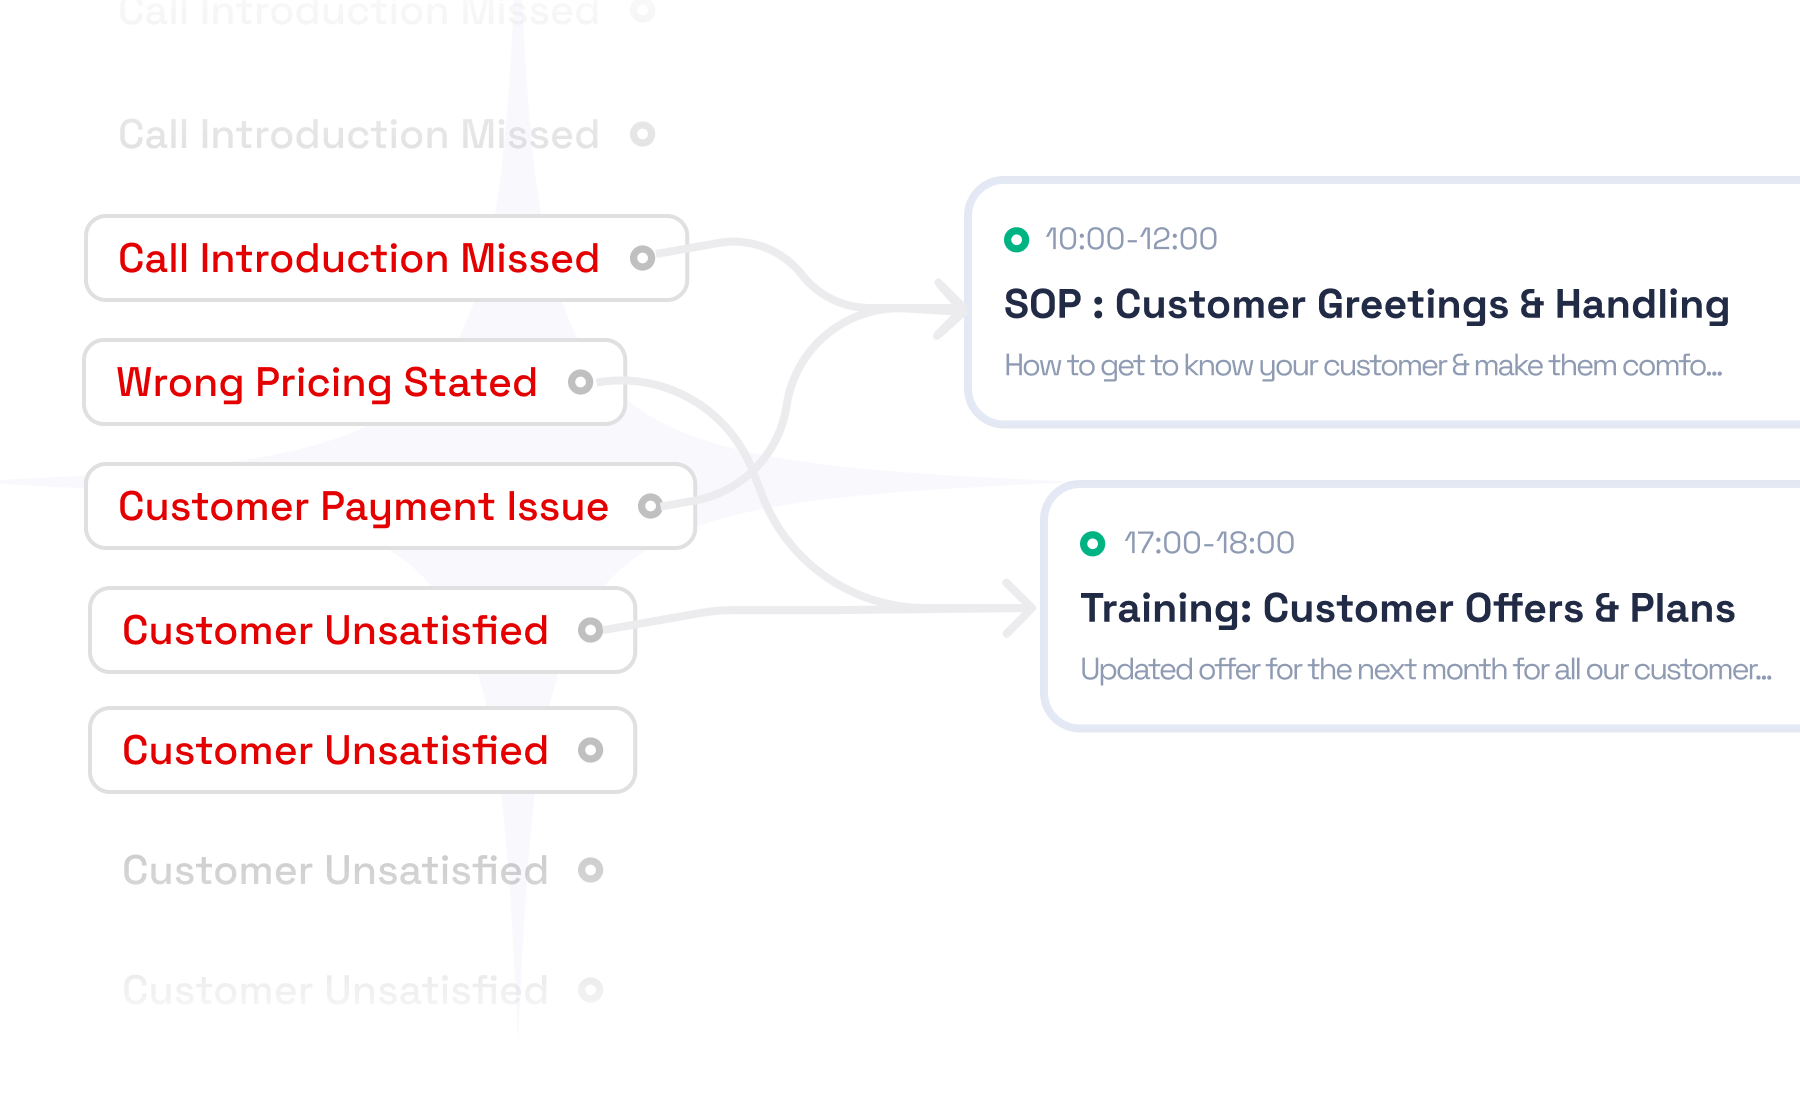
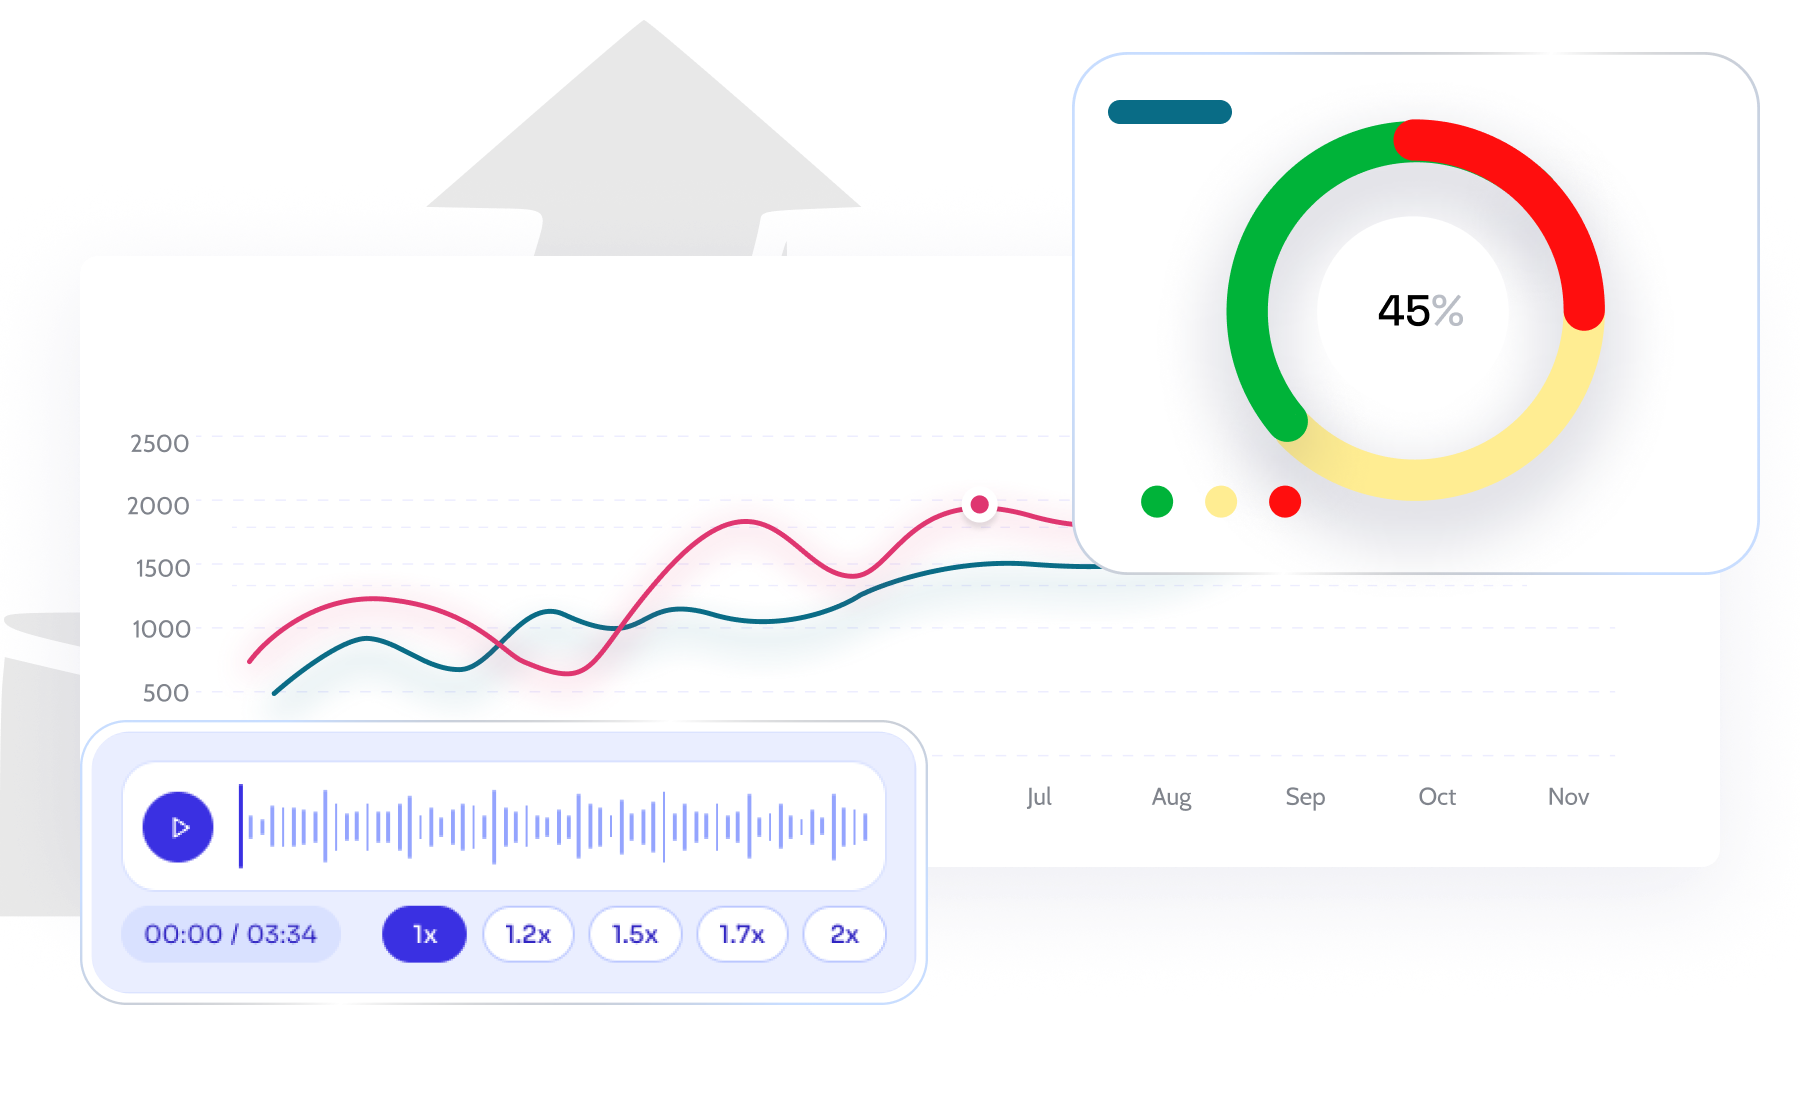
fix

diff --git a/src/components/hero/hero-graphic.jsx b/src/components/hero/hero-graphic.jsx
@@ -1,29 +1,35 @@
-// import { useState, useEffect } from 'react'
+import { useState, useEffect } from 'react'
 import heroImage from '@/assets/hero.png'
 
 export default function HeroGraphic() {
-  // const [scrollY, setScrollY] = useState(0)
+  const [scrollY, setScrollY] = useState(0)
 
-  // useEffect(() => {
-  //   const handleScroll = () => {
-  //     setScrollY(window.scrollY)
-  //   }
+  useEffect(() => {
+    const handleScroll = () => {
+      setScrollY(window.scrollY)
+    }
 
-  //   window.addEventListener('scroll', handleScroll)
-  //   return () => window.removeEventListener('scroll', handleScroll)
-  // }, [])
+    window.addEventListener('scroll', handleScroll)
+    return () => window.removeEventListener('scroll', handleScroll)
+  }, [])
 
   // Calculate tilt angle based on scroll position
-  // Start at -25 degrees on X-axis (3D tilt), gradually return to 0 as we scroll to 1000px
-  // const maxScroll = 1000
-  // const maxTilt = -25
-  // const currentTilt = Math.max(10, maxTilt + (scrollY / maxScroll) * Math.abs(maxTilt))
+  // Start at 15 degrees, reduce by 1 degree every 20px scroll until 0
+  const scrollStep = 20 // pixels per degree
+  const initialTilt = 15
+  const tiltReduction = Math.floor(scrollY / scrollStep)
+  const currentTilt = Math.max(0, initialTilt - tiltReduction)
+  
+  // Calculate parallax effect once tilt reaches 0
+  const tiltEndScroll = initialTilt * scrollStep // 300px - when tilt reaches 0
+  const parallaxStarted = scrollY > tiltEndScroll
+  const parallaxOffset = parallaxStarted ? (scrollY - tiltEndScroll) * -0.4 : 0
 
   return (
     <div 
-      className="relative w-[80%] max-w-[1500px] rounded-none mx-auto xl:-top-[300px] -top-[200px] transition-transform duration-100 ease-out"
+      className="relative w-[80%] max-w-[1100px] rounded-none mx-auto xl:-top-[150px] -top-[200px] transition-transform duration-100 ease-out"
       style={{
-        transform: `perspective(1000px) rotateX(10deg)`,
+        transform: `perspective(1000px) rotateX(${currentTilt}deg) translateY(${parallaxOffset}px)`,
         transformStyle: 'preserve-3d'
       }}
     >

diff --git a/src/components/hero/index.jsx b/src/components/hero/index.jsx
@@ -13,16 +13,16 @@ export default function Hero() {
           </span>
         </div>
 
-        <h1 className="text-xl md:text-5xl font-[650] text-gray-590 tracking-[-1px] leading-relaxed">
-          End Manual Sampling, Start Total Visibility & Continuous Team Improvement.
+        <h1 className="text-xl md:text-5xl font-[800] text-gray-590 tracking-[-1px] leading-relaxed mt-5">
+          Call Quality Audits & Training Made Simple
         </h1>
-        <p className="text-lg font-serif text-gray-500">
-          Measure how well your team is responding to customers, without spending $$$ or ⏱️⏱️⏱️.
+        <p className="md:text-xl text-lg font-serif text-gray-500 font-[450]">
+          Instantly measure how well your team is responding to customers using AI
         </p>
 
         <div className="flex items-center gap-4 mt-3">
           <button className="p-2 px-5 bg-slate-50 text-black text-sm border border-gray-200 rounded-full font-medium transition-all flex items-center gap-2">
-            Learn more <ArrowDownIcon className="w-4 h-4" />
+              How it works <ArrowDownIcon className="w-4 h-4" />
           </button>
           <button className="p-2 px-5 bg-black text-white text-sm rounded-full font-medium transition-all flex items-center gap-2">
             Schedule a Demo
@@ -53,7 +53,7 @@ export default function Hero() {
           </div>
         </div>
       </div>
-
+      
     </section>
   );
 }       